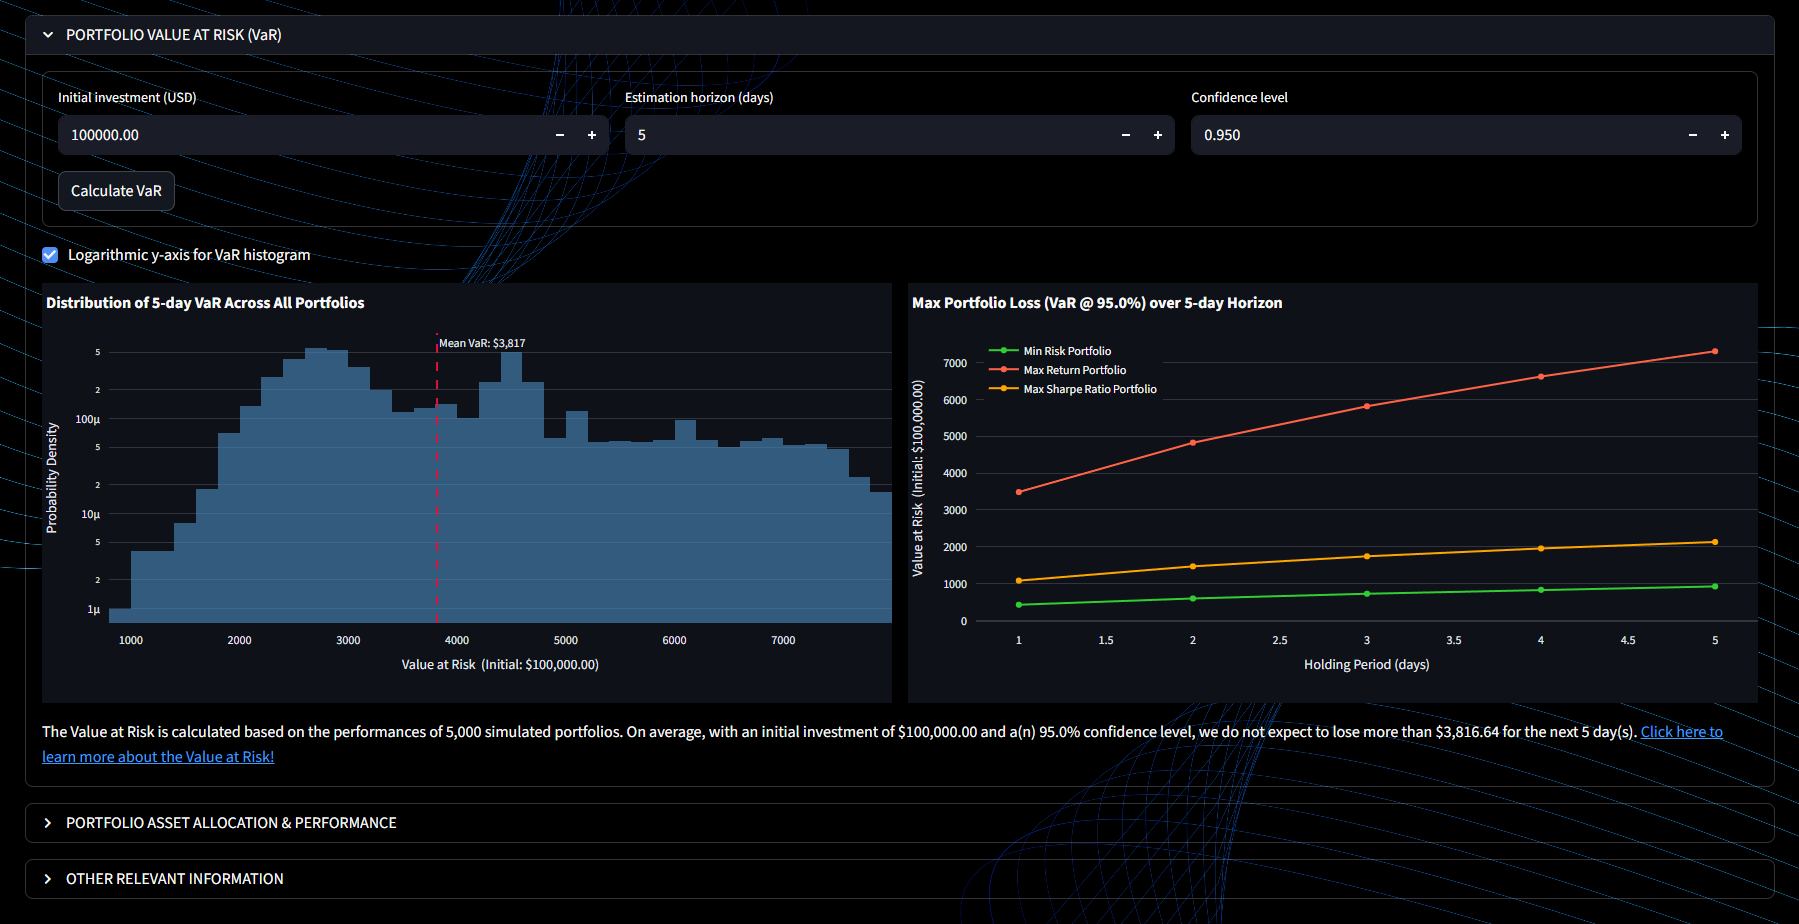
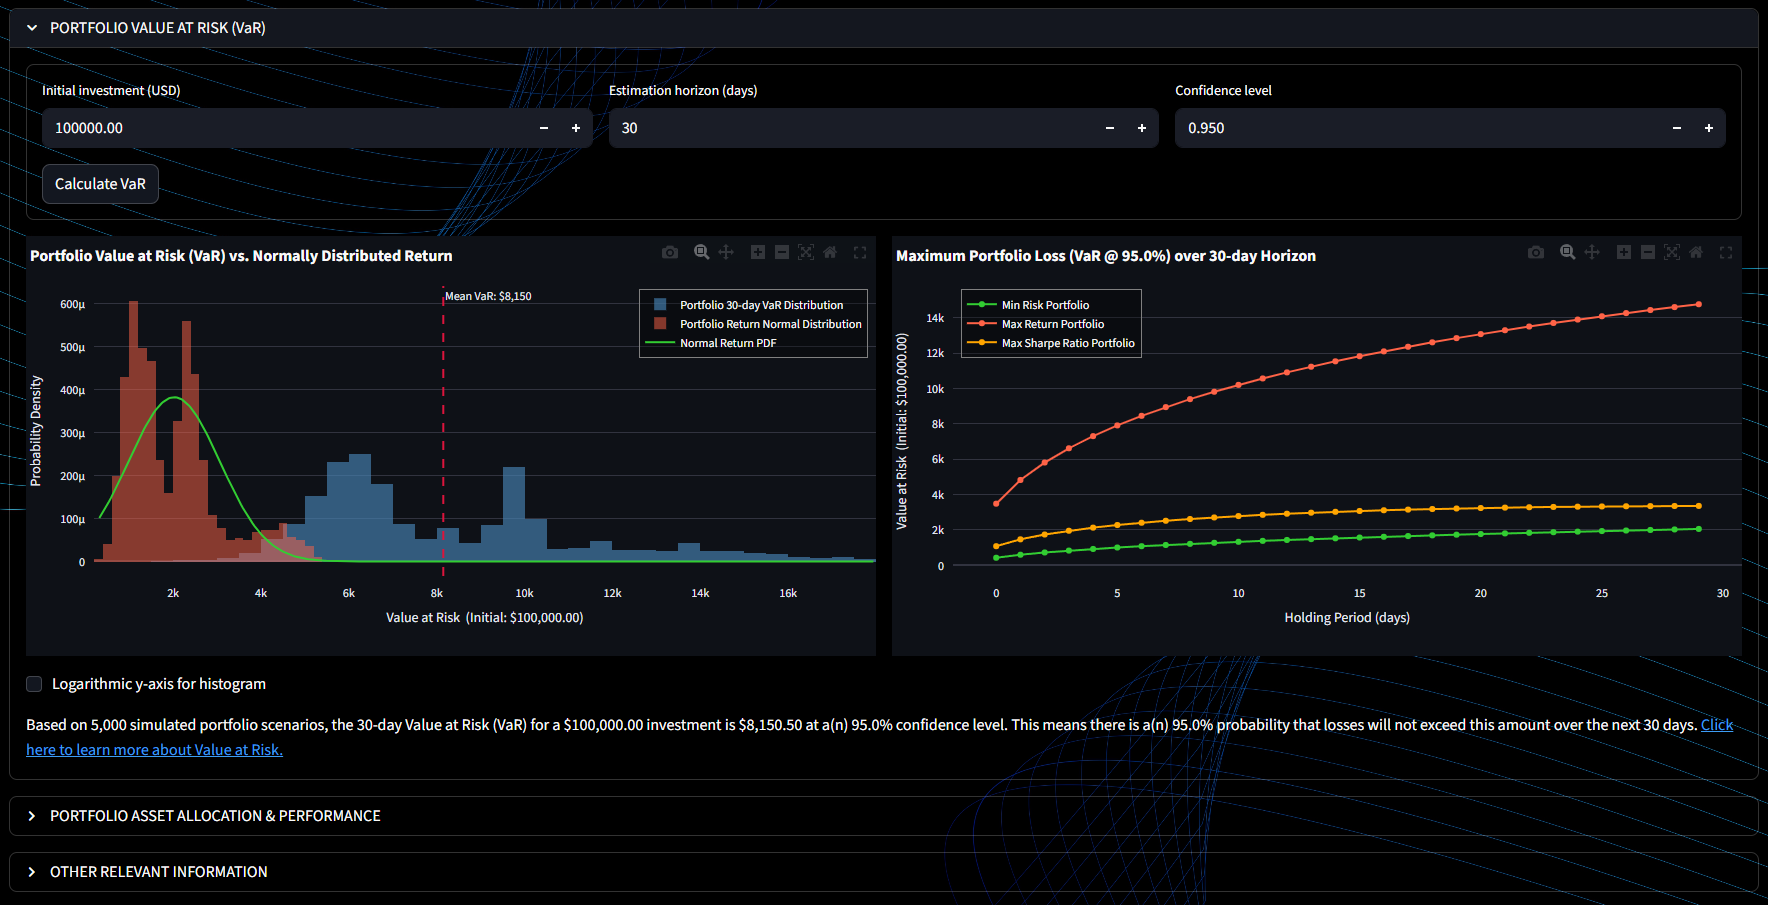
VaR plot updates

diff --git a/indices-app.py b/indices-app.py
@@ -1055,31 +1055,54 @@ The chart is fully interactive — zoom, pan, and hover for details.
         var_vals = calc_var(df_sim, initial_inv, conf_level, periods)
         mean_var = float(np.mean(var_vals))
 
-        log_scale = st.checkbox("Logarithmic y-axis for VaR histogram", value=False)
+        log_scale = st.session_state.get("var_log_scale", False)
         c1, c2 = st.columns(2)
 
         with c1:
-            # VaR distribution histogram
+            # t-day portfolio dollar returns for comparison overlay
+            t_ret = df_sim["expReturn"].values * periods / 252
+            dollar_ret = initial_inv * t_ret
+            ret_mean = float(np.mean(dollar_ret))
+            ret_std = float(np.std(dollar_ret))
+            x_min = min(float(np.min(var_vals)), float(np.min(dollar_ret)))
+            x_max = max(float(np.max(var_vals)), float(np.max(dollar_ret)))
+            x_pdf = np.linspace(x_min, x_max, 400)
+            y_pdf = norm.pdf(x_pdf, ret_mean, ret_std)
+
             figV1 = go.Figure()
             figV1.add_trace(go.Histogram(
                 x=var_vals, histnorm="probability density", opacity=0.65,
-                nbinsx=40, name=f"{periods}-day VaR",
+                nbinsx=40, name=f"Portfolio {periods}-day VaR Distribution",
                 marker_color="steelblue",
+            ))
+            figV1.add_trace(go.Histogram(
+                x=dollar_ret, histnorm="probability density", opacity=0.50,
+                nbinsx=40, name="Portfolio Return Normal Distribution",
+                marker_color="tomato",
+            ))
+            figV1.add_trace(go.Scatter(
+                x=x_pdf, y=y_pdf,
+                mode="lines", name="Normal Return PDF",
+                line=dict(color="limegreen", width=2),
             ))
             figV1.add_vline(
                 x=mean_var, line_dash="dash", line_color="crimson",
-                annotation_text=f"Mean VaR: {fmt_inv[0]}{ mean_var:,.0f}",
+                annotation_text=f"Mean VaR: ${mean_var:,.0f}",
                 annotation_position="top right",
             )
             figV1.update_layout(
                 template=plotly_tpl,
-                title=f"Distribution of {periods}-day VaR Across All Portfolios",
+                barmode="overlay",
+                title=f"Portfolio Value at Risk (VaR) vs. Normally Distributed Return",
                 xaxis_title=f"Value at Risk  (Initial: {fmt_inv})",
                 yaxis_title="Probability Density",
                 yaxis_type="log" if log_scale else "linear",
+                legend=dict(x=0.99, y=0.99, xanchor="right", yanchor="top",
+                            bgcolor="rgba(0,0,0,0.3)", bordercolor="gray", borderwidth=1),
                 height=420, margin=dict(t=50),
             )
             st.plotly_chart(figV1)
+            st.checkbox("Logarithmic y-axis for histogram", value=False, key="var_log_scale")
 
         with c2:
             # VaR over holding period for the three special portfolios
@@ -1098,7 +1121,7 @@ The chart is fully interactive — zoom, pan, and hover for details.
             else:
                 for i, nm in enumerate(sp_cols):
                     figV2.add_trace(go.Scatter(
-                        x=list(range(1, periods + 1)), y=df_var.iloc[:, i],
+                        x=list(range(0, periods)), y=df_var.iloc[:, i],
                         mode="lines+markers",
                         line=dict(color=sp_clrs[i], width=2),
                         name=f"{nm} Portfolio",
@@ -1107,9 +1130,10 @@ The chart is fully interactive — zoom, pan, and hover for details.
 
             figV2.update_layout(
                 template=plotly_tpl,
-                title=f"Max Portfolio Loss (VaR @ {conf_level:.1%}) over {periods}-day Horizon",
+                title=f"Maximum Portfolio Loss (VaR @ {conf_level:.1%}) over {periods}-day Horizon",
                 yaxis_title=f"Value at Risk  (Initial: {fmt_inv})",
-                legend=dict(x=0.01, y=0.99),
+                legend=dict(x=0.01, y=0.99, xanchor="left", yanchor="top",
+                            bgcolor="rgba(0,0,0,0.3)", bordercolor="gray", borderwidth=1),
                 height=420, margin=dict(t=50),
             )
             st.plotly_chart(figV2)
@@ -1117,11 +1141,11 @@ The chart is fully interactive — zoom, pan, and hover for details.
         formatted_var = '{:,.2f}'.format(abs(mean_var))
         
         st.write(
-            f'The Value at Risk is calculated based on the performances of {len(df_sim):,} '
-            f'simulated portfolios. On average, with an initial investment of \${initial_inv:,.2f} '
-            f'and a(n) {round(conf_level * 100, 1)}% confidence level, we do not expect to lose '
-            f'more than ${formatted_var} for the next {periods} day(s). '
-            f'[Click here to learn more about the Value at Risk!]'
+            f'Based on {len(df_sim):,} simulated portfolio scenarios, the {periods}-day Value at Risk (VaR) '
+            f'for a \${initial_inv:,.2f} investment is \${formatted_var} at a(n) {round(conf_level * 100, 1)}% '
+            f'confidence level. This means there is a(n) {round(conf_level * 100, 1)}% probability that losses '
+            f'will not exceed this amount over the next {periods} days. '
+            f'[Click here to learn more about Value at Risk.]'
             f'(https://www.investopedia.com/articles/04/092904.asp)'
         )
         

diff --git a/README.md b/README.md
@@ -12,7 +12,7 @@ alt="" title="" width="60%" height="60%">
 
 <b>You can open the app by clicking on the Streamlit icon [![Streamlit App](https://static.streamlit.io/badges/streamlit_badge_black_white.svg)](https://haivu173-stock-indices-tool.streamlit.app/)
 
-The accompanied Jupyter notebook can be best rendered using NBViewer [![NBViewer](https://user-images.githubusercontent.com/2791223/29387450-e5654c72-8294-11e7-95e4-090419520edb.png)](https://nbviewer.org/github/namhaivu173/Stock_Index_App/blob/main/Indices_Dashboard.ipynb)
+<!-- The accompanied Jupyter notebook can be best rendered using NBViewer [![NBViewer](https://user-images.githubusercontent.com/2791223/29387450-e5654c72-8294-11e7-95e4-090419520edb.png)](https://nbviewer.org/github/namhaivu173/Stock_Index_App/blob/main/Indices_Dashboard.ipynb) -->
 </b>
 
 ## Main goals of project:
